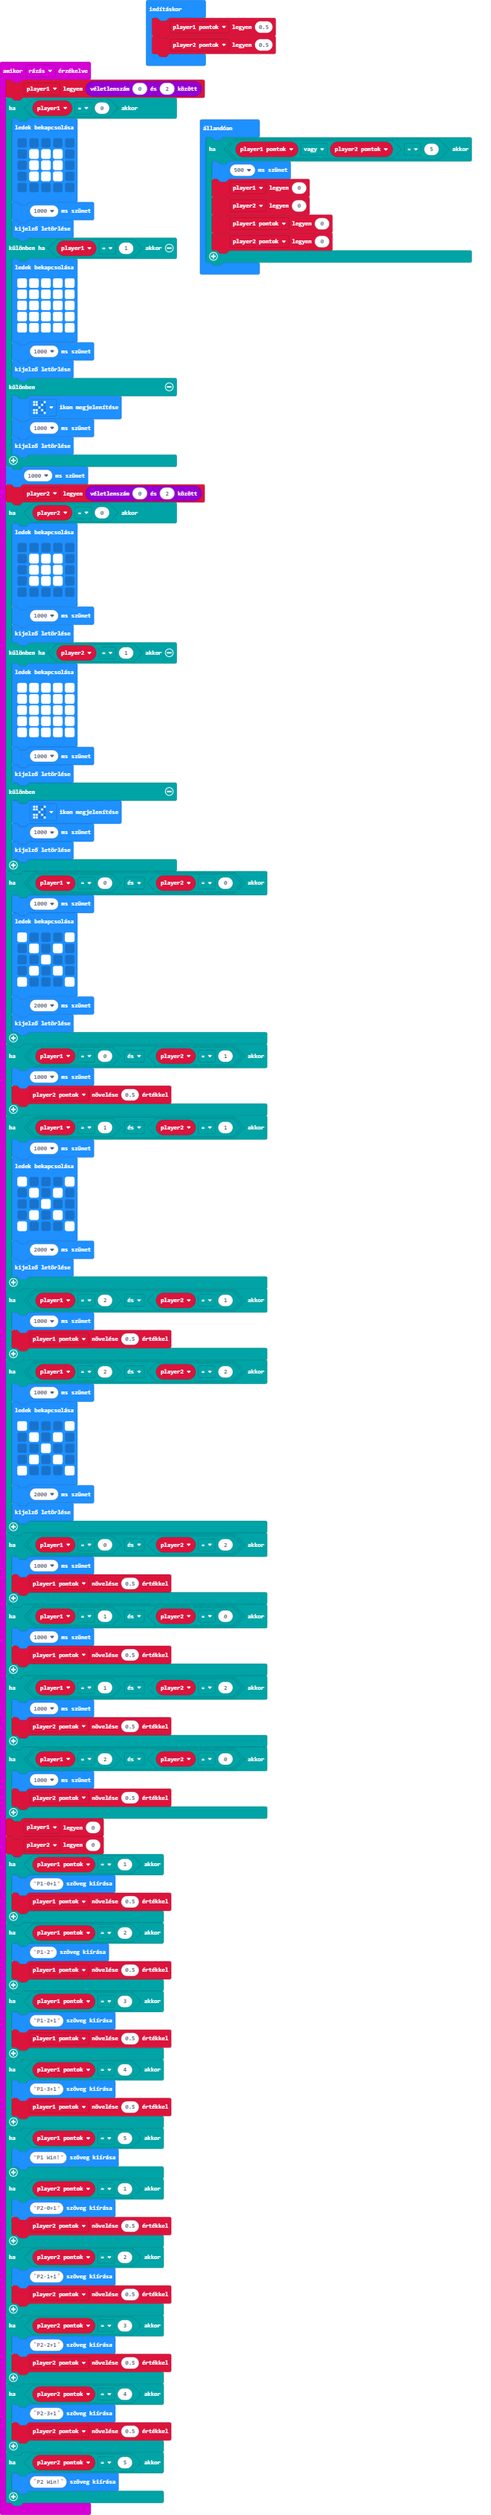
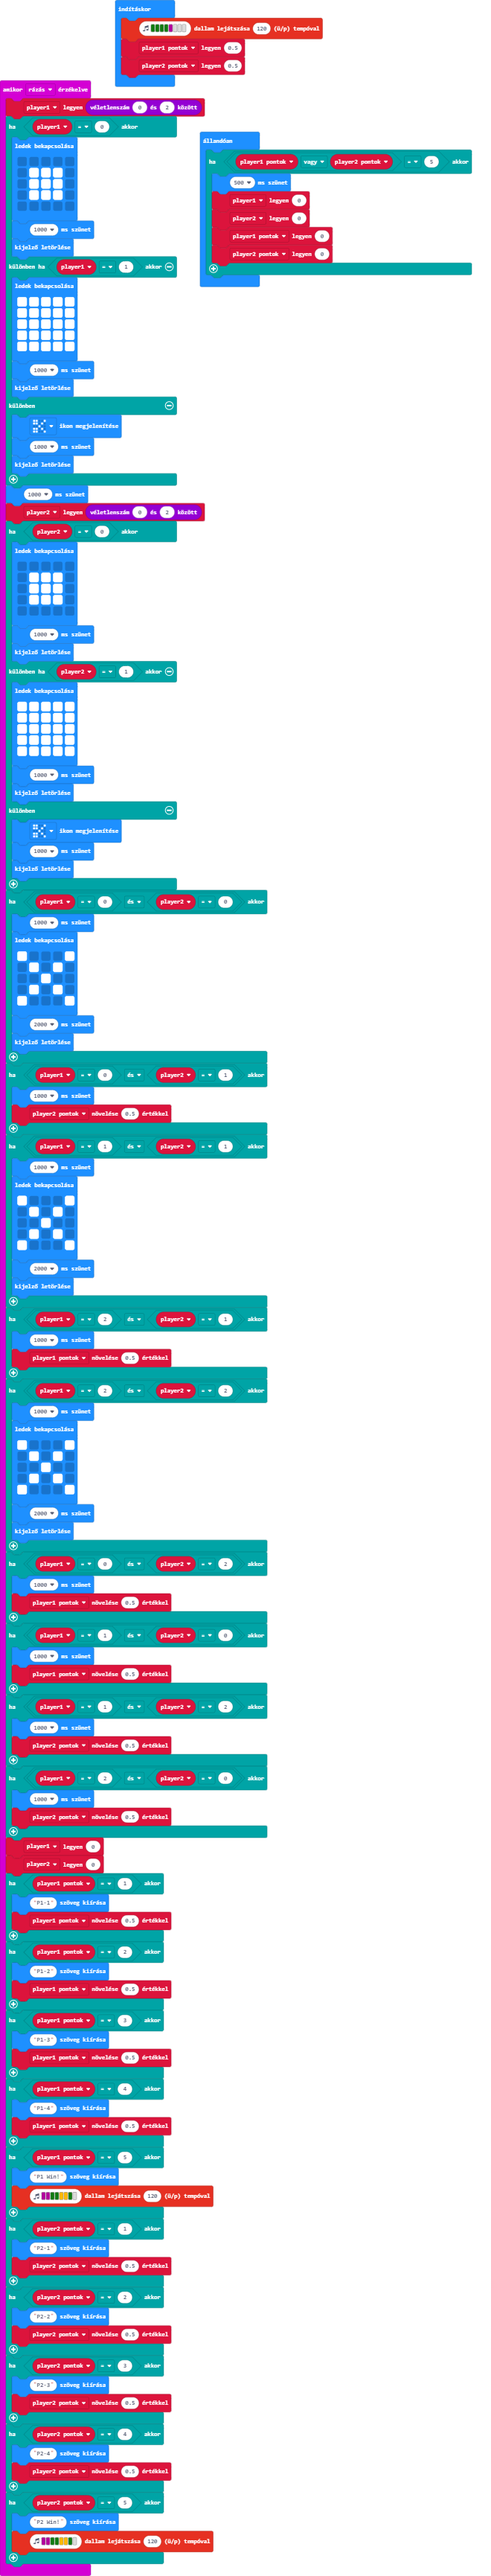
hang

Changed region(s): [[0.0, 0.0, 0.9697, 0.9941], [0.303, 0.3417, 0.5455, 0.3728]]

diff --git a/main.ts b/main.ts
@@ -115,7 +115,7 @@ input.onGesture(Gesture.Shake, function () {
     player1 = 0
     player2 = 0
     if (player1_pontok == 1) {
-        basic.showString("P1-0+1")
+        basic.showString("P1-1")
         player1_pontok += 0.5
     }
     if (player1_pontok == 2) {
@@ -123,40 +123,43 @@ input.onGesture(Gesture.Shake, function () {
         player1_pontok += 0.5
     }
     if (player1_pontok == 3) {
-        basic.showString("P1-2+1")
+        basic.showString("P1-3")
         player1_pontok += 0.5
     }
     if (player1_pontok == 4) {
-        basic.showString("P1-3+1")
+        basic.showString("P1-4")
         player1_pontok += 0.5
     }
     if (player1_pontok == 5) {
         basic.showString("P1 Win!")
+        music.playMelody("C C G G A A G - ", 120)
     }
     if (player2_pontok == 1) {
-        basic.showString("P2-0+1")
+        basic.showString("P2-1")
         player2_pontok += 0.5
     }
     if (player2_pontok == 2) {
-        basic.showString("P2-1+1")
+        basic.showString("P2-2")
         player2_pontok += 0.5
     }
     if (player2_pontok == 3) {
-        basic.showString("P2-2+1")
+        basic.showString("P2-3")
         player2_pontok += 0.5
     }
     if (player2_pontok == 4) {
-        basic.showString("P2-3+1")
+        basic.showString("P2-4")
         player2_pontok += 0.5
     }
     if (player2_pontok == 5) {
         basic.showString("P2 Win!")
+        music.playMelody("C C G G A A G - ", 120)
     }
 })
 let player2 = 0
 let player1 = 0
 let player2_pontok = 0
 let player1_pontok = 0
+music.playMelody("G G G G C - - - ", 120)
 player1_pontok = 0.5
 player2_pontok = 0.5
 basic.forever(function () {
